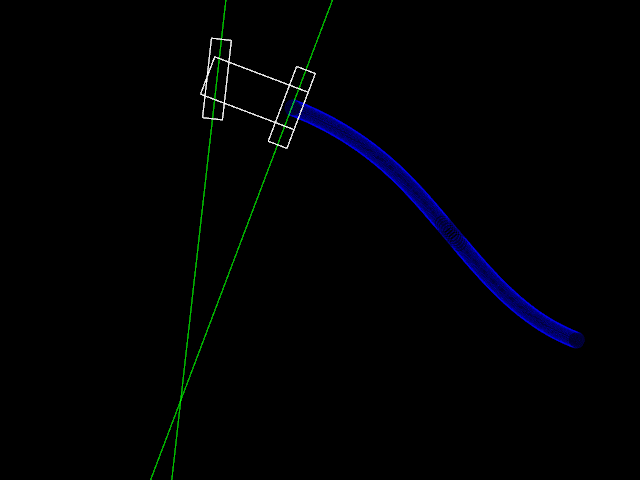
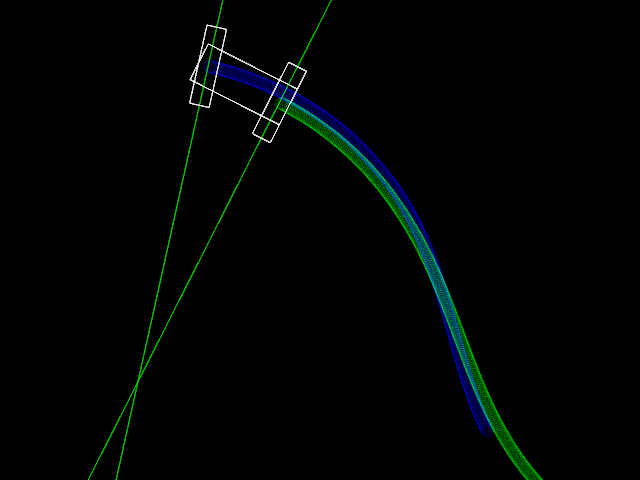
Added front tire trajectory

diff --git a/src/ofApp.cpp b/src/ofApp.cpp
@@ -9,6 +9,8 @@ void ofApp::setup(){
 	pos.x = ofGetWidth() / 2.0;
 	pos.y = ofGetHeight() / 2.0;
 
+	positionLog.clear();
+
 	ofNoFill();
 	ofSetBackgroundColor(ofColor::black);
 	ofSetFrameRate(60);
@@ -17,7 +19,13 @@ void ofApp::setup(){
 
 
 void ofApp::update(){
-	positionLog.push_back(pos);
+	positionLog.push_back({
+		pos,
+		ofPoint(
+			pos.x + cos(heading - PI/2) * WHEEL_BASE,
+			pos.y + sin(heading - PI/2) * WHEEL_BASE
+		)
+	});
 	while(positionLog.size() >= 240){
 		positionLog.erase(positionLog.begin());
 	}
@@ -43,9 +51,11 @@ void ofApp::update(){
 
 
 void ofApp::draw(){
-	ofSetColor(ofColor::blue, 64);
-	for(ofPoint p: positionLog){
-		ofDrawCircle(p, 8);
+	for(auto p: positionLog){
+		ofSetColor(ofColor::green, 64);
+		ofDrawCircle(p.first, 6);
+		ofSetColor(ofColor::blue, 64);
+		ofDrawCircle(p.second, 6);
 	}
 
 	ofPushMatrix();

diff --git a/src/ofApp.h b/src/ofApp.h
@@ -1,6 +1,7 @@
 #pragma once
 
 #include <vector>
+#include <utility>
 
 #include <ofMain.h>
 
@@ -11,7 +12,7 @@ private:
 	double steer, heading;
 	int speed;
 
-	std::vector<ofPoint> positionLog;
+	std::vector< std::pair<ofPoint, ofPoint> > positionLog;
 
 public:
 	void setup();
